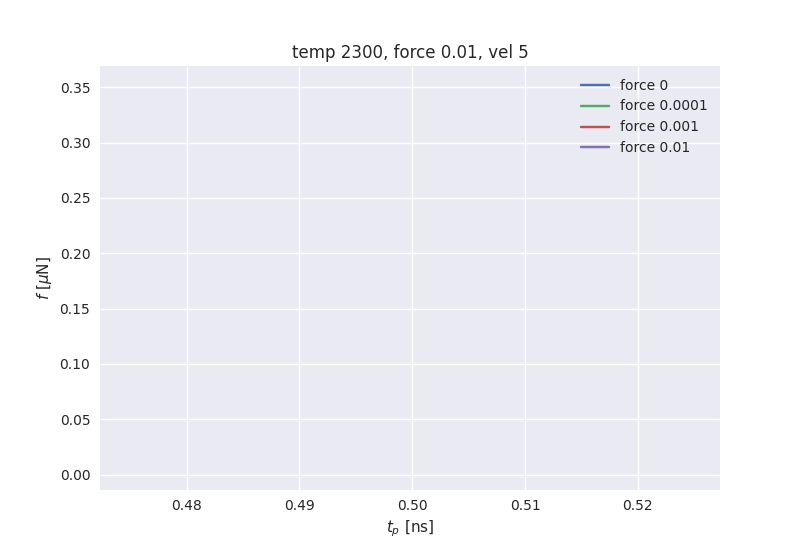
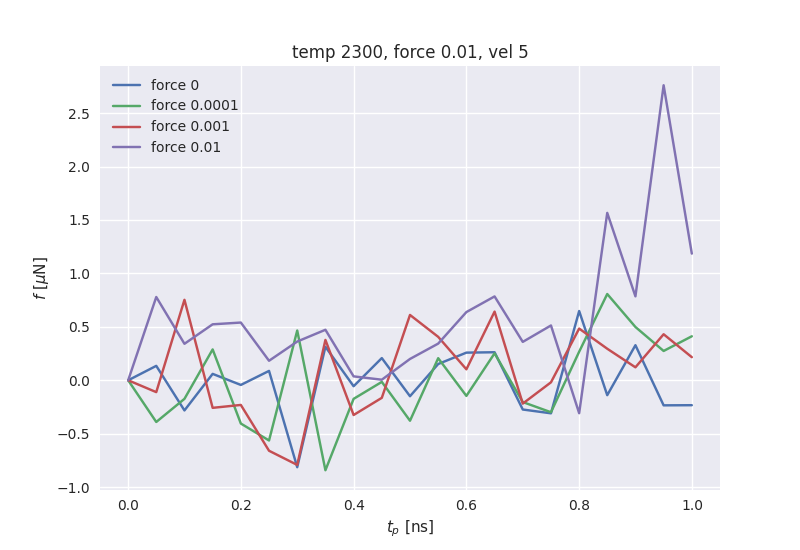
called with window = 0 causes error. fixed

diff --git a/python/post/get_load_curves.py b/python/post/get_load_curves.py
@@ -78,9 +78,10 @@ if __name__ == '__main__':
     temp = 2300
     vel = 5
     time = 1000
+    init_time = 0
     initnum = 0
     for force in [0, 0.0001, 0.001, 0.01]:
         logfile = f'../../simulations/sys_asp{asperities}_uc{uc}/production/sim_temp{temp}_force{force}_asp{asperities}_time{time}_initnum{initnum}_errgrid4_4/log.lammps'
         outfile_lc = f'../../txt/load_curves/production/load_curves_temp{temp}_vel{vel}_force{force}_asp{asperities}_initnum{initnum}_errgrid4_4.txt'
         outfile_ms = f'../../txt/max_static/production/max_static_temp{temp}_vel{vel}_force{force}_asp{asperities}_initnum{initnum}_errgrid4_4.txt'
-        extract_load_curves(logfile, None, 0, 5000, outfile_load_curves = outfile_lc, outfile_max_static = outfile_ms)
+        extract_load_curves(logfile, None, 0, outfile_load_curves = outfile_lc, outfile_max_static = outfile_ms)

diff --git a/python/post/post_utils.py b/python/post/post_utils.py
@@ -290,7 +290,8 @@ def extract_load_curves(logfile, delta=None, init_time=0, window=1,
     
     print("Length of log file: ", len(time))
 
-
+    print(fx)
+    print(window)
     # smooth friction force
     fx = running_mean(fx, window)
 
